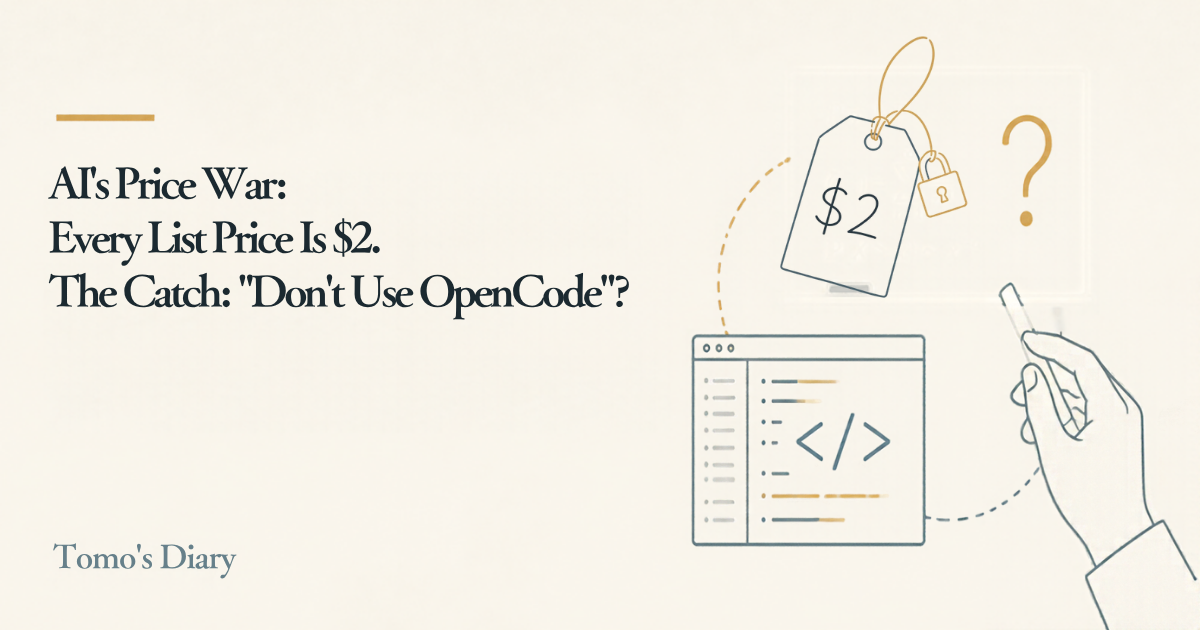
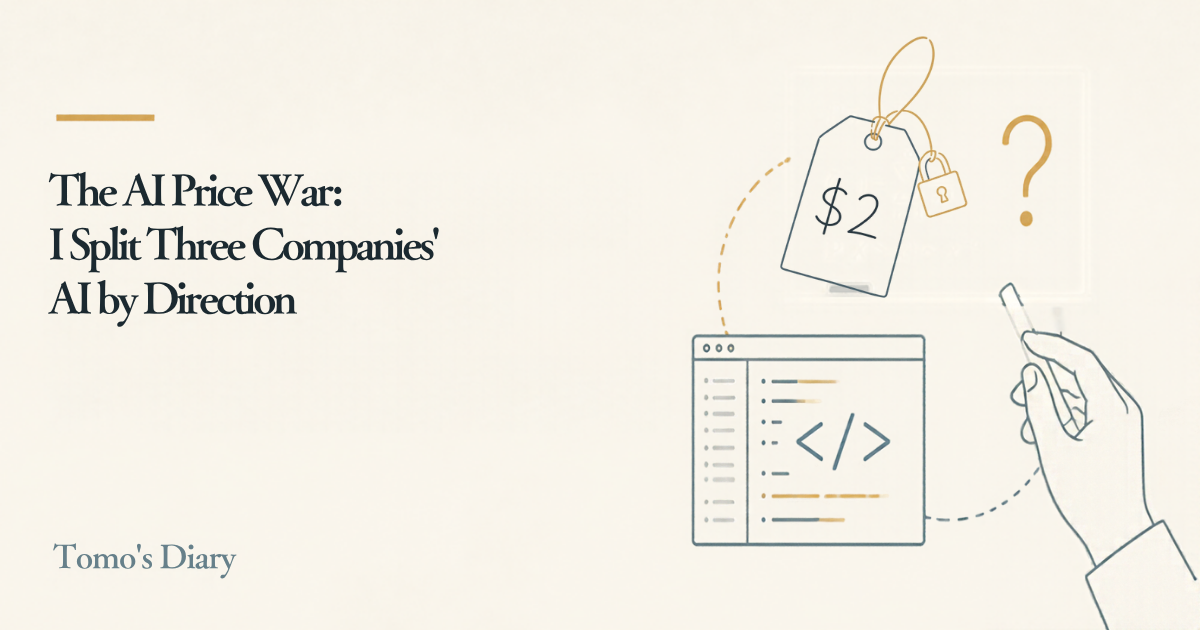
Rewrite price-war post: split AI agents by direction (JA/EN)

Changed region(s): [[0.0308, 0.2714, 0.5242, 0.5127]]

diff --git a/src/posts/ai-price-war-lock-in.md b/src/posts/ai-price-war-lock-in.md
@@ -1,27 +1,27 @@
 ---
-title: "AIの値下げ戦争、定価はみんな2ドルだった。値引きの条件は「OpenCodeを使うな」？"
-date: 2026-10-25T08:50:00+08:00
-description: "OpenAIが値下げでAnthropicからコーディングの仕事を奪っています。ただ定価はどこも100万トークンあたり2ドル。本当の戦いは非公開の値引きと、そこに付いてくる道具の縛り、そして常駐エージェントです。モデルはコストと速さと質で選べと言い続けてきた立場から書きました。"
+title: "AIの値下げ戦争、私は3社のAIを方角で使い分ける"
+date: 2026-10-25T08:55:00+08:00
+description: "定価はどこも100万トークンあたり2ドル。モデルで差がつかなくなったAI各社は、条件付きの値引きと常駐エージェントで客を囲い込みにきています。私は1社に絞らず、内側・つくる・外側の3つの方角でAIを使い分けています。"
 tags:
   - tech
   - ai
   - openai
   - anthropic
 image: /images/posts/ai-price-war-lock-in/hero.png
-imageAlt: "クリーム色の背景に「AIの値下げ戦争、定価はみんな2ドルだった。値引きの条件は『OpenCodeを使うな』？」というタイトルと、南京錠の付いた値札、コード画面、チョークを持つ手の線画"
+imageAlt: "クリーム色の背景に「AIの値下げ戦争、私は3社のAIを方角で使い分ける」というタイトルと、南京錠の付いた値札、コード画面、チョークを持つ手の線画"
 ---
 
-AIの値下げ戦争が企業の現場で本格的に始まりました。ただ、定価を並べるとどこも100万トークンあたり2ドルで、ほとんど差がありません。本当の戦いは表に出ない値引きと、その値引きに付いてくる「道具の縛り」のほうにあると私は見ています。
+AIの値下げ戦争で、モデルそのものの差はほとんどなくなりました。そこで各社は条件付きの値引きや常駐エージェントで客を囲い込もうとしています。私はどこか1社に決めず、3社のAIを仕事の「方角」で使い分けています。
 
-## Rippling は5か月で OpenAI に乗り換えた
+## Rippling は5月から OpenAI に乗り換えた
 
-米国のテック系メディア The Information が10月24日に[報じた記事](https://www.theinformation.com/articles/anthropics-margin-openais-opportunity)によると、人事ソフトの Rippling では、数百人のエンジニアのコーディング作業のうち、5月は Anthropic のモデルが57%、OpenAI が16%を担っていました。今は OpenAI が52%、Anthropic が18%と逆転しています。CEOの Parker Conrad 氏は、コストを下げたかったことと、OpenAI のほうが安かったことを理由に挙げています（[記事の無料部分](https://www.benzinga.com/content/62577789/anthropic-s-margin-openai-s-opportunity)）。
+米国のテック系メディア The Information が10月24日に[報じた記事](https://www.theinformation.com/articles/anthropics-margin-openais-opportunity)によると、人事ソフトの Rippling では、エンジニアのコーディング作業のうち、5月は Anthropic のモデルが57%、OpenAI が16%を担っていました。今は OpenAI が52%、Anthropic が18%と逆転しています。CEOの Parker Conrad 氏は、OpenAI のほうが安かったことを理由に挙げています（[記事の無料部分](https://www.benzinga.com/content/62577789/anthropic-s-margin-openai-s-opportunity)）。
 
-ブラウザでアプリを作れる Replit も、年1億ドルを超える契約で OpenAI から30%以上の値引きを受け、AIへの支出の大半を移したと[報じられています](https://www.techmeme.com/261024/p8)。CEOの Amjad Masad 氏は OpenAI を自社のAIエージェントの「優先パートナー」にした理由を、性能とコストと提携の強さだと[Xで説明しています](https://x.com/amasad/status/2111494912562888939)。Claude も引き続き選べます。
+ブラウザでアプリを作れる Replit も、OpenAI から30%以上の値引きを受けて、AIへの支出の大半を移したと[報じられています](https://www.techmeme.com/261024/p8)。
 
-## 定価はどこも2ドルだった
+## 定価はどこも2ドル
 
-では OpenAI はどれだけ安いのか。API（プログラムからAIを呼び出す仕組み）の定価を並べると、拍子抜けします。
+API（プログラムからAIを呼び出す仕組み）の定価を並べると、拍子抜けします。
 
 - OpenAI の GPT-6.1 Sol：入力2ドル、出力10ドル（[公式](https://openai.com/index/introducing-gpt-6-1-sol/)）
 - Anthropic の Claude Sonnet 5.5：入力2ドル、出力10ドル（[公式](https://platform.claude.com/docs/en/about-claude/pricing)）
@@ -29,20 +29,30 @@ AIの値下げ戦争が企業の現場で本格的に始まりました。ただ
 
 どれもトークン（AIが文章を数える単位）100万あたりの値段です。円なら入力約314円・出力約1,568円、ペソなら約127ペソ・約636ペソで、まったく同じです。
 
-モデルそのものでは、もう差がつきにくくなりました。今はどのAIもターミナル（コマンドを打ち込む画面）を操作でき、VM（仮想マシン）を持ち、クラウドでエージェントを動かしています。判断や分類だけに絞ったDecision Model（決定モデル）も出てきました。Microsoft の [Decision-1](https://commandline.microsoft.com/microsoft-decision-1-model-foundry/) は入力100万トークンで0.042ドル、出力は無料です。手元で動く安いLLM（大規模言語モデル）も、実用的な質と速さで答えを返します。これで値下げ戦争にならないわけがありません。
+今はどのAIもターミナル（コマンドを打ち込む画面）を操作でき、VM（仮想マシン）を持ち、クラウドでエージェントを動かしています。判断や分類だけに絞ったDecision Model（決定モデル）も出てきました。Microsoft の [Decision-1](https://commandline.microsoft.com/microsoft-decision-1-model-foundry/) は入力100万トークンで0.042ドル、出力は無料です。手元で動く安いLLM（大規模言語モデル）も、実用的な質と速さで答えを返します。
 
-ソフトウェア開発なら、今の Opus や Sol で十分です。Mythos のような最上位モデルにお金を払い続ける必要はありません。私が [opencode で使っている無料の Muse](/posts/presyo-bantay/) でも足ります。では、その先に私たちは何を求めるのでしょうか。
+ソフトウェア開発なら、今の Opus や Sol で十分です。Mythos のような最上位モデルにお金を払い続ける必要はありません。[無料の Muse](/posts/presyo-bantay/) でも足ります。
 
-## 値引きには条件が付いていた
+## モデルの代わりに、条件と仕組みで囲い込む
 
-定価が横並びなら、勝負は表に出ない値引きです。The Information の記事では、オンライン学習の DataCamp にも OpenAI から値引きの提案が来ていました。同誌の Amir Efrati 氏が [Xに載せた記事の画像](https://x.com/amir/status/2114028199567118499)には、「OpenCode や Claude Code のような競合ツールではなく、Codex を使う」という一文が写っています。画像は文の途中から切れていますが、Codex（OpenAI のコーディング用AIツール）を使うことが値引きの条件だったようです。OpenCode はオープンソースの、Claude Code は Anthropic のコーディング用AIツールです。DataCamp のCEOは「コストが80〜90%下がる」と話しています。
+モデルだけでは客をつなぎ止められないので、各社は別の手で囲い込みにきています。
 
-モデルだけでは客をつなぎ止められないので、各社は仕組みで囲い込みにきています。OpenAI なら、Codex と組み合わせてコードの脆弱性を探し、修正案まで用意する [Daybreak](https://openai.com/daybreak/) があり、守る側の組織向けに10億ドル分の利用補助まで出しています。Anthropic なら Claude Code や、[前回書いた](/posts/agent-skills-donation/) Agent Skills のような仕組みです。
+ひとつは条件付きの値引きです。The Information の記事では、オンライン学習の DataCamp にも OpenAI から値引きの提案が来ていました。同誌の Amir Efrati 氏が [Xに載せた記事の画像](https://x.com/amir/status/2114028199567118499)には、「OpenCode や Claude Code のような競合ツールではなく、Codex を使う」という一文が写っています。画像は文の途中から切れていますが、Codex（OpenAI のコーディング用AIツール）を使うことが値引きの条件だったようです。
 
-いちばん強い縛りはその先にあります。OpenAI の [Dots](https://openai.com/index/introducing-dots/)（クラウド上で24時間動き続ける自律エージェント）や、Anthropic の [Claude Duet](https://www.theverge.com/ai-artificial-intelligence/1015843/anthropic-claude-duet-ai-agent)（毎朝の要点報告と裏での作業をこなすエージェント）、Grok Bot のような常駐型のAIです。私の文脈を覚えて、私の代わりに動いてくれます。こういう常駐自律型は、一度体験するともう離れるのは難しいです。
+もうひとつは仕組みです。OpenAI は Codex と組み合わせてコードの脆弱性を探し、修正案まで用意する [Daybreak](https://openai.com/daybreak/) を出しました。常駐型のAIでも、OpenAI の [Dots](https://openai.com/index/introducing-dots/)（クラウド上で24時間動き続ける自律エージェント）や、Anthropic の [Claude Duet](https://www.theverge.com/ai-artificial-intelligence/1015843/anthropic-claude-duet-ai-agent)（毎朝の要点報告と裏での作業をこなすエージェント）が出てきました。
 
-## コストと速さと質で選べ
+## 私は方角で使い分けている
 
-私はずっと、モデルはコストと速さと質で選べと言い続けています。道具を縛る値引きを受ければ、その3つで選び直す自由を手放すことになります。
+それでも私は、1社には絞りません。仕事の向きで分けています。
 
-と偉そうに書きましたが、この記事は値引きの条件で「使わないで」と名指しされた OpenCode に無料の Muse をつないで書いています。常駐エージェントからは私もたぶん離れられませんが、モデルだけは今日も無料で選んでいます。
+- 内側からのアクション（Slackやメール）：OpenAI の Dots
+- つくる仕事（コードを書かせる、ドキュメントをつくる）：Claude
+- 外側の動向からのアクション（Xやニュース）：Grok Bot
+
+どれも一度体験すると、離れるのは難しいです。ただ、全部の方角で勝つAIはありません。DataCamp の例のような条件付きの値引きは、方角をひとつ丸ごと1社に明け渡させるものです。
+
+## 役割ごとにコストと速さと質で選ぶ
+
+私はずっと、モデルはコストと速さと質で選べと言ってきました。エージェントも同じで、役割ごとにその3つで選べばいいと考えています。
+
+実はこの記事の題材も、Xのニュースで話題になっていた The Information の記事を、Grok Bot が拾ってきたものです。外側の方角は今日も Grok Bot の担当でした。

diff --git a/src/en/posts/ai-price-war-lock-in.md b/src/en/posts/ai-price-war-lock-in.md
@@ -1,28 +1,28 @@
 ---
-title: "AI's Price War: Every List Price Is $2. Was the Discount's Catch \"Don't Use OpenCode\"?"
-date: 2026-10-25T08:50:00+08:00
-description: "OpenAI is winning coding work from Anthropic on price, but list prices are flat at $2 per million tokens. The real fight is private discounts and the strings attached to them, from tool requirements to always-on agents. A note from someone who chooses models by cost, speed, and quality."
+title: "The AI Price War: I Split Three Companies' AI by Direction"
+date: 2026-10-25T08:55:00+08:00
+description: "List prices are flat at $2 per million tokens. With models no longer setting them apart, AI companies are locking customers in with conditional discounts and always-on agents. I don't pick one; I split my AI by direction: inside, making, and outside."
 tags:
   - tech
   - ai
   - openai
   - anthropic
 image: /images/posts/ai-price-war-lock-in/hero-en.png
-imageAlt: "Cream background with the headline 'AI's Price War: Every List Price Is $2. The Catch: Don't Use OpenCode?' and line drawings of a padlocked price tag, a code window and a hand holding chalk"
+imageAlt: "Cream background with the headline 'The AI Price War: I Split Three Companies' AI by Direction' and line drawings of a padlocked price tag, a code window and a hand holding chalk"
 lang: en
 ---
 
-The AI price war has reached the enterprise. Yet if you line up the list prices, almost everyone charges $2 per million tokens. The real fight, as I see it, is happening off the price list: in private discounts, and in the strings that come attached to them.
+In the AI price war, the gap between the models themselves has all but disappeared. So every company is trying to lock customers in with conditional discounts and always-on agents. I don't commit to any one of them. I split three companies' AI by the "direction" of the work.
 
-## Rippling switched to OpenAI in five months
+## Rippling has been moving to OpenAI since May
 
-According to [a report by The Information](https://www.theinformation.com/articles/anthropics-margin-openais-opportunity) on October 24, Anthropic's models handled 57% of the coding work done by hundreds of engineers at HR software company Rippling in May, while OpenAI's handled 16%. Now it's flipped: OpenAI at 52%, Anthropic at 18%. CEO Parker Conrad said the company wanted to cut costs and OpenAI was cheaper ([free excerpt](https://www.benzinga.com/content/62577789/anthropic-s-margin-openai-s-opportunity)).
+According to [a report by The Information](https://www.theinformation.com/articles/anthropics-margin-openais-opportunity) on October 24, Anthropic's models handled 57% of the coding work done by engineers at HR software company Rippling in May, while OpenAI's handled 16%. Now it's flipped: OpenAI at 52%, Anthropic at 18%. CEO Parker Conrad pointed to OpenAI being cheaper ([free excerpt](https://www.benzinga.com/content/62577789/anthropic-s-margin-openai-s-opportunity)).
 
-Replit, which lets you build apps in the browser, reportedly moved most of its AI spending to OpenAI after getting more than 30% off a deal worth over $100 million a year ([Techmeme summary](https://www.techmeme.com/261024/p8)). CEO Amjad Masad [said on X](https://x.com/amasad/status/2111494912562888939) that OpenAI is now the "preferred partner" for its agent because of performance, cost, and the strength of the partnership. Claude is still available as an option.
+Replit, which lets you build apps in the browser, reportedly moved most of its AI spending to OpenAI after getting more than 30% off ([Techmeme summary](https://www.techmeme.com/261024/p8)).
 
 ## Every list price is $2
 
-So how much cheaper is OpenAI? Line up the API (the way programs call an AI model) list prices and it's almost anticlimactic.
+Line up the API (the way programs call an AI model) list prices and it's almost anticlimactic.
 
 - OpenAI GPT-6.1 Sol: $2 input, $10 output ([official](https://openai.com/index/introducing-gpt-6-1-sol/))
 - Anthropic Claude Sonnet 5.5: $2 input, $10 output ([official](https://platform.claude.com/docs/en/about-claude/pricing))
@@ -30,20 +30,30 @@ So how much cheaper is OpenAI? Line up the API (the way programs call an AI mode
 
 Those are per million tokens (the units AI uses to count text). In yen that's about ¥314 in and ¥1,568 out; in pesos, about ₱127 and ₱636. Identical.
 
-The model itself is barely a differentiator anymore. Every AI can now drive a terminal, has its own VM (virtual machine), and runs agents in the cloud. There are even decision models built only for judging and classifying: Microsoft's [Decision-1](https://commandline.microsoft.com/microsoft-decision-1-model-foundry/) costs $0.042 per million input tokens, and output is free. Cheap LLMs (large language models) running on your own machine return answers with usable quality and speed. A price war was inevitable.
+Every AI can now drive a terminal, has its own VM (virtual machine), and runs agents in the cloud. There are even decision models built only for judging and classifying: Microsoft's [Decision-1](https://commandline.microsoft.com/microsoft-decision-1-model-foundry/) costs $0.042 per million input tokens, and output is free. Cheap LLMs (large language models) running on your own machine return answers with usable quality and speed.
 
-For software development, today's Opus or Sol is plenty. There's no need to keep paying for a top-tier model like Mythos. Even the free Muse model [I use through opencode](/en/posts/presyo-bantay/) is enough. So what do we actually want next?
+For software development, today's Opus or Sol is plenty. There's no need to keep paying for a top-tier model like Mythos. Even the [free Muse model](/en/posts/presyo-bantay/) is enough.
 
-## The discount came with a condition
+## Locking you in with conditions and ecosystems
 
-When list prices are flat, the competition moves to discounts you never see. The Information's article says OpenAI also offered a discount to online learning company DataCamp. In [a screenshot of the article posted by The Information's Amir Efrati](https://x.com/amir/status/2114028199567118499), one line reads "...use Codex rather than a competing tool like OpenCode or Claude Code." The sentence is cut off, but it appears the discount was tied to using Codex, OpenAI's AI coding tool. OpenCode is an open-source AI coding tool, and Claude Code is Anthropic's. DataCamp's CEO said, "We're looking at an 80% to 90% decrease in costs."
+Since no one can hold customers with a model alone, the companies are trying other ways.
 
-Since no one can hold customers with a model alone, every company is trying to lock them in with an ecosystem. OpenAI has [Daybreak](https://openai.com/daybreak/), which works with Codex to find security holes in your code and prepare fixes, backed by $1 billion in subsidized access for defenders. Anthropic has Claude Code and things like [Agent Skills, which I wrote about last time](/en/posts/agent-skills-donation/).
+One is the conditional discount. The Information's article says OpenAI also offered a discount to online learning company DataCamp. In [a screenshot of the article posted by The Information's Amir Efrati](https://x.com/amir/status/2114028199567118499), one line reads "...use Codex rather than a competing tool like OpenCode or Claude Code." The sentence is cut off, but it appears the discount was tied to using Codex, OpenAI's AI coding tool.
 
-The strongest lock-in goes one step further: always-on AI like OpenAI's [Dots](https://openai.com/index/introducing-dots/) (autonomous agents that keep working 24/7 on their own cloud computer), Anthropic's [Claude Duet](https://www.theverge.com/ai-artificial-intelligence/1015843/anthropic-claude-duet-ai-agent) (an agent that sends a morning brief and handles tasks in the background), and Grok Bot. They remember my context and act on my behalf. Once you've lived with one of these, it's really hard to leave.
+The other is the ecosystem. OpenAI launched [Daybreak](https://openai.com/daybreak/), which works with Codex to find security holes in your code and prepare fixes. Always-on AI has arrived too: OpenAI's [Dots](https://openai.com/index/introducing-dots/) (autonomous agents that keep working 24/7 on their own cloud computer) and Anthropic's [Claude Duet](https://www.theverge.com/ai-artificial-intelligence/1015843/anthropic-claude-duet-ai-agent) (an agent that sends a morning brief and handles tasks in the background).
 
-## Choose by cost, speed, and quality
+## I split them by direction
 
-I've been saying it for years: choose your model by cost, speed, and quality. Accept a discount that ties you to a tool, and you give up the freedom to choose again on those three.
+Even so, I don't settle on one company. I divide the work by which way it faces.
 
-Big words, I know. I wrote this post running the free Muse on OpenCode, the very tool that discount reportedly told people not to use. I probably can't quit my always-on agent either, but the model, at least, I still pick for free every day.
+- Inside (actions from Slack and email): OpenAI's Dots
+- Making things (writing code, creating documents): Claude
+- Outside (actions on trends from X and the news): Grok Bot
+
+Once you've lived with any of these, it's hard to leave. But no single AI wins in every direction. A conditional discount like DataCamp's is a way of getting you to hand an entire direction over to one company.
+
+## Choose by cost, speed, and quality, per role
+
+I've long said: choose your model by cost, speed, and quality. Agents are no different. Pick each one for its role on those three.
+
+In fact, the topic of this post came from Grok Bot, which spotted The Information's story trending in X's news. The outside direction was Grok Bot's job again today.
